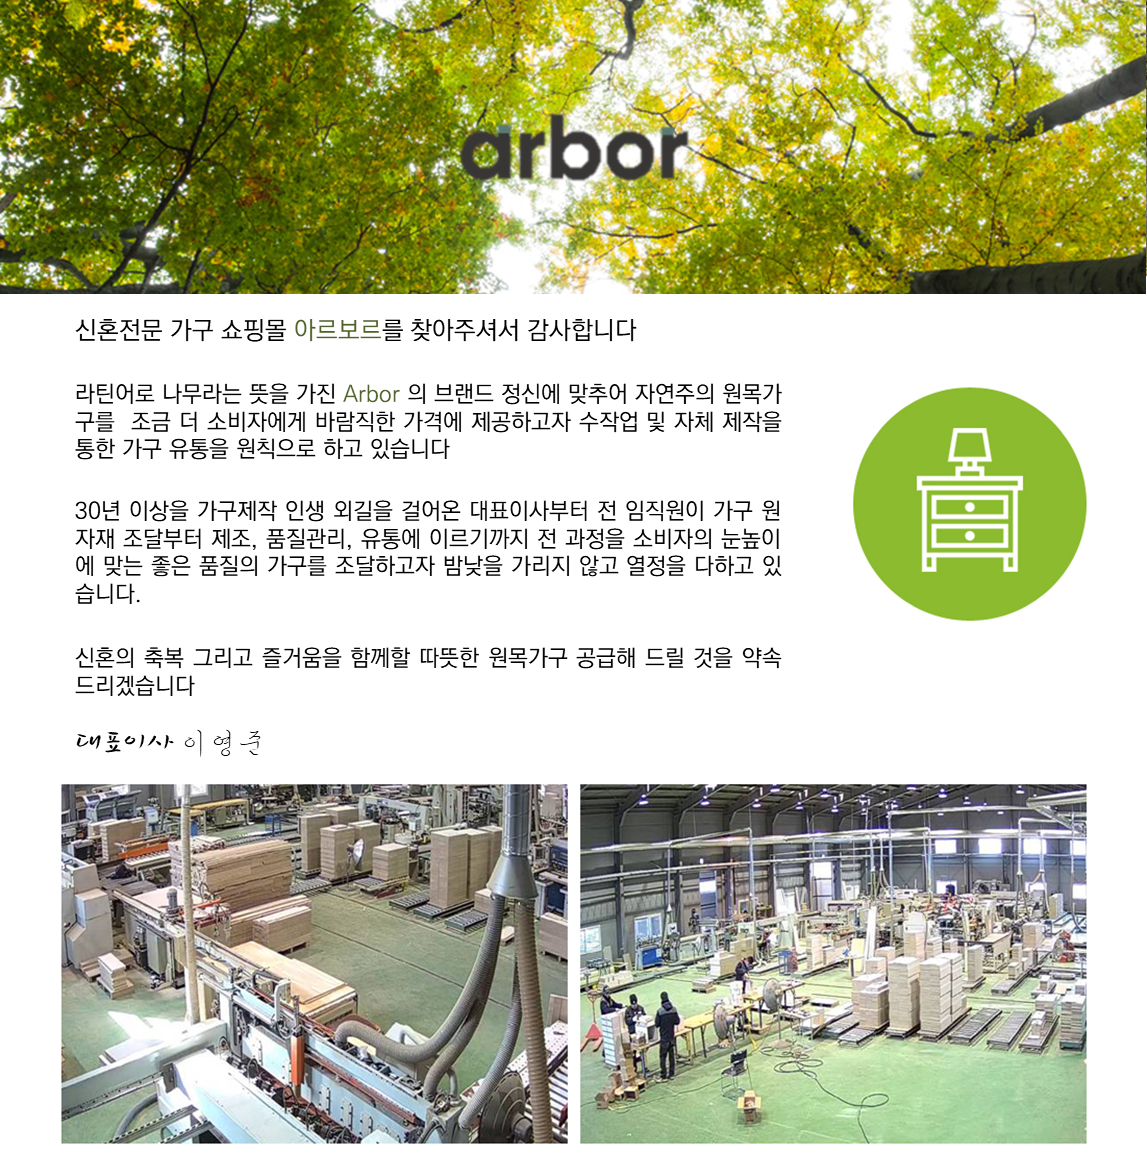
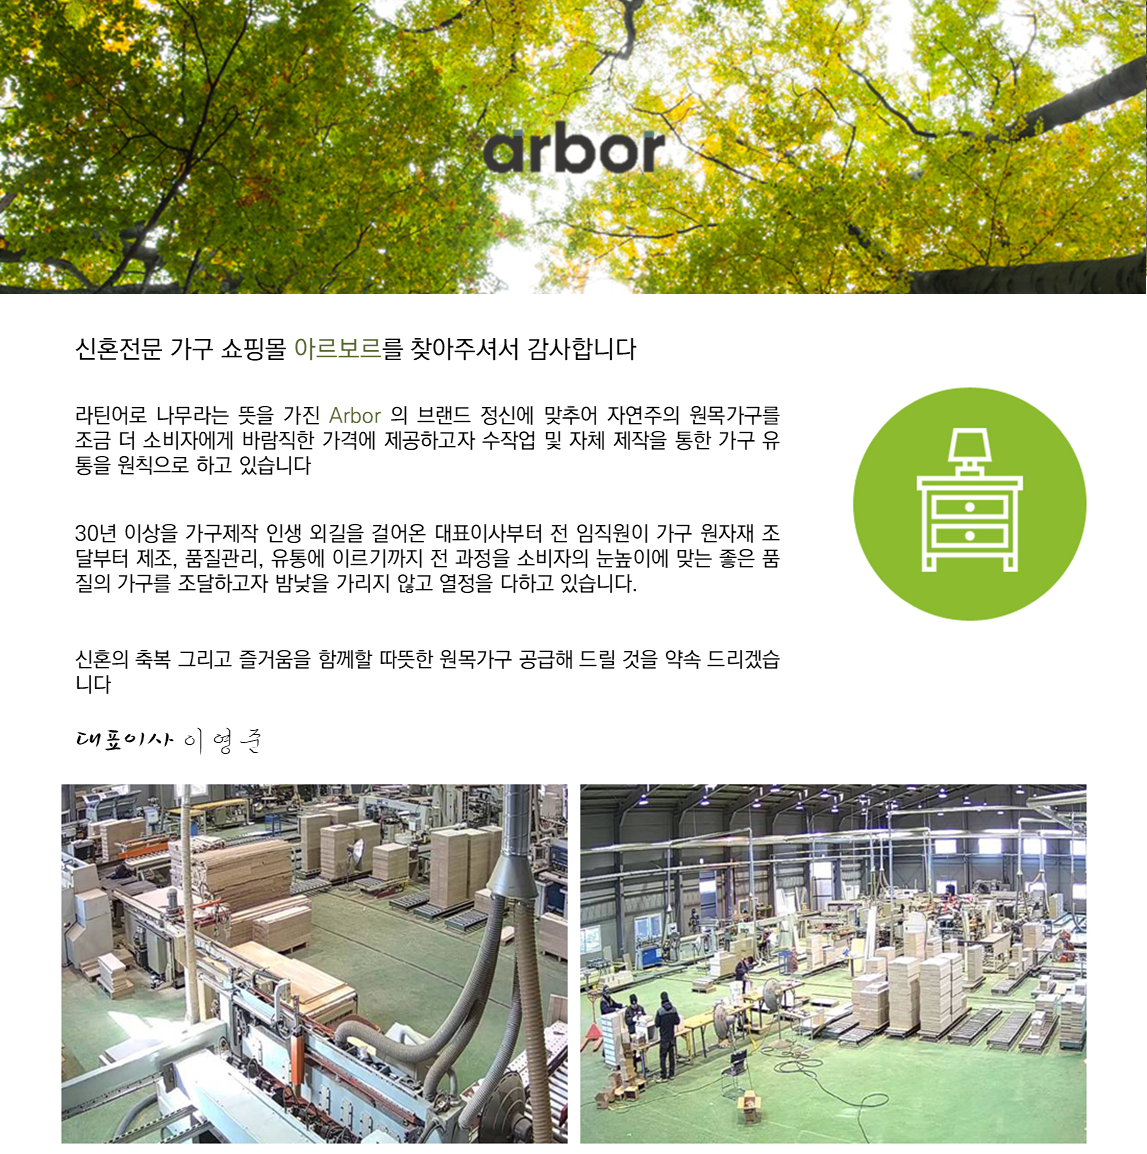
0524 회사소개페이지 수정

diff --git a/Arbor/src/main/webapp/css/client/aboutUs.css b/Arbor/src/main/webapp/css/client/aboutUs.css
@@ -7,8 +7,8 @@
 	width:1100px;
 }
 
-
 .h_map{
+    padding: 10px 20px;
     width: 500px;
     height: 400px;
     float: left;
@@ -16,7 +16,7 @@
 
 .h_branchInfo{
 	padding: 10px 20px;
-    width: 500px;
+    width: 400px;
     height: 400px;
     margin-left: 600px;
     /* border:1px solid black; */
@@ -31,15 +31,12 @@
 }
 
 .h_branchInfo li:nth-child(2n+1){
-	margin:20px 0;
+	margin:8px 0;
 	cursor:help;
 }
 
 .h_branchEvent0 {
-	margin:50px auto 0;
-	height:20px;
-	width:120px;
-	border:1px solid #333;
+	margin:30px auto;
 	text-align:center;
 	cursor:pointer;
 }
@@ -47,4 +44,8 @@
 .h_memTableLi{
 	margin:40px 0;
 		
+}
+.clientMainBtn.largeview{
+	width:150px;
+	height:30px
 }
